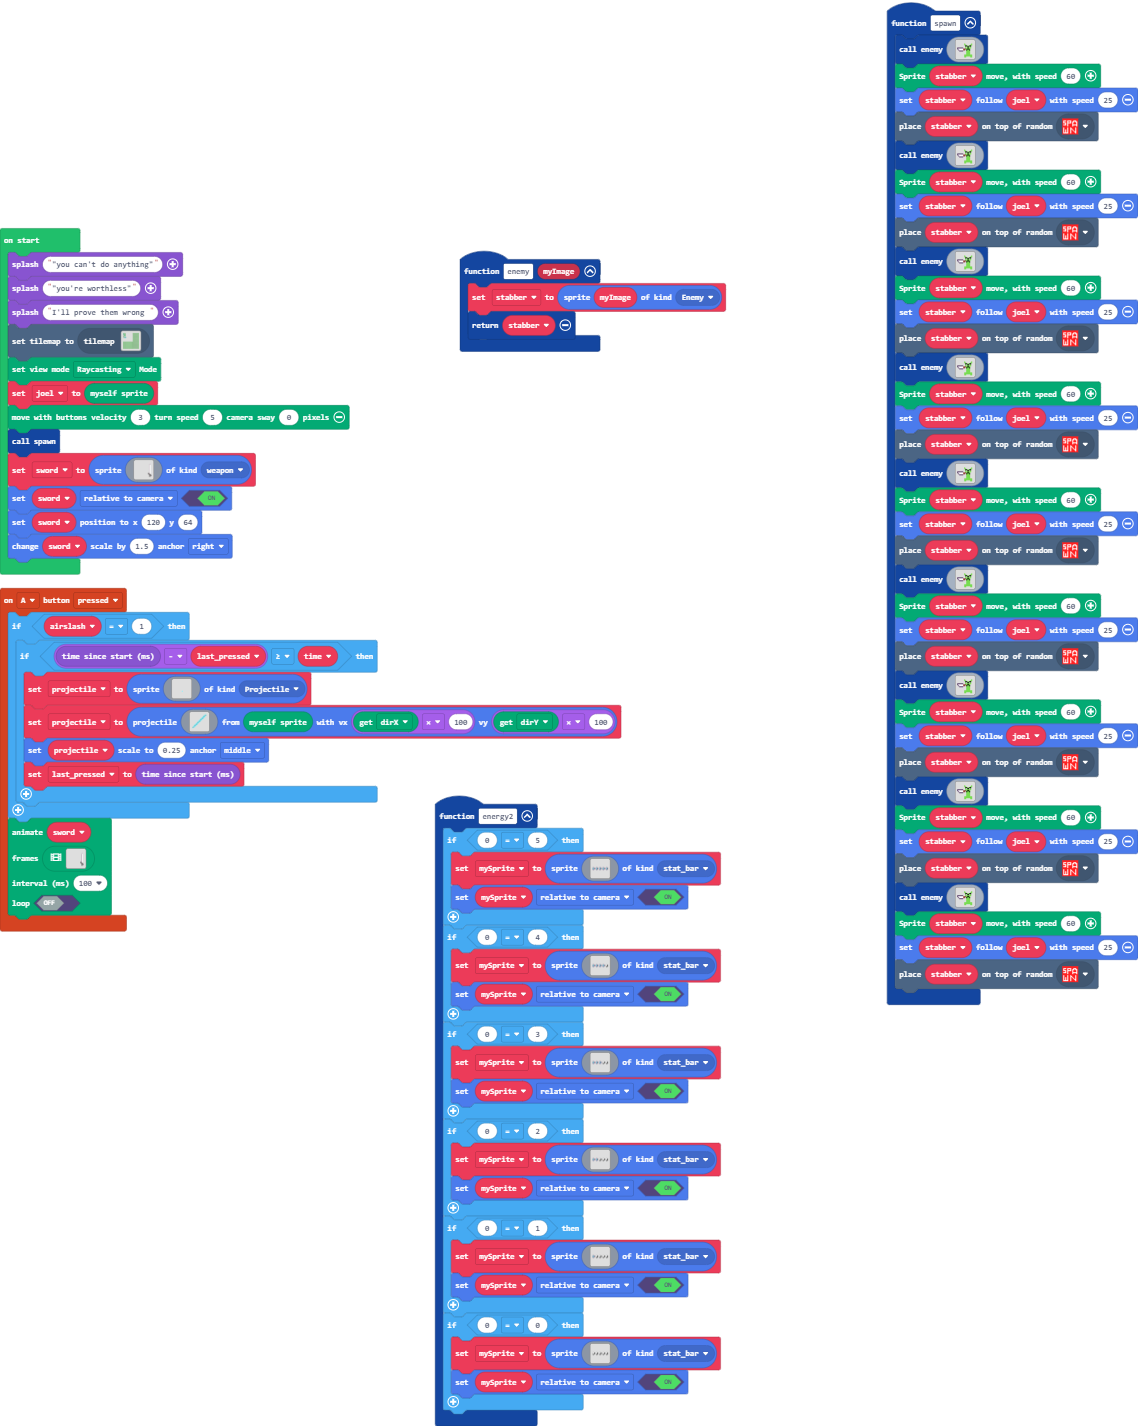
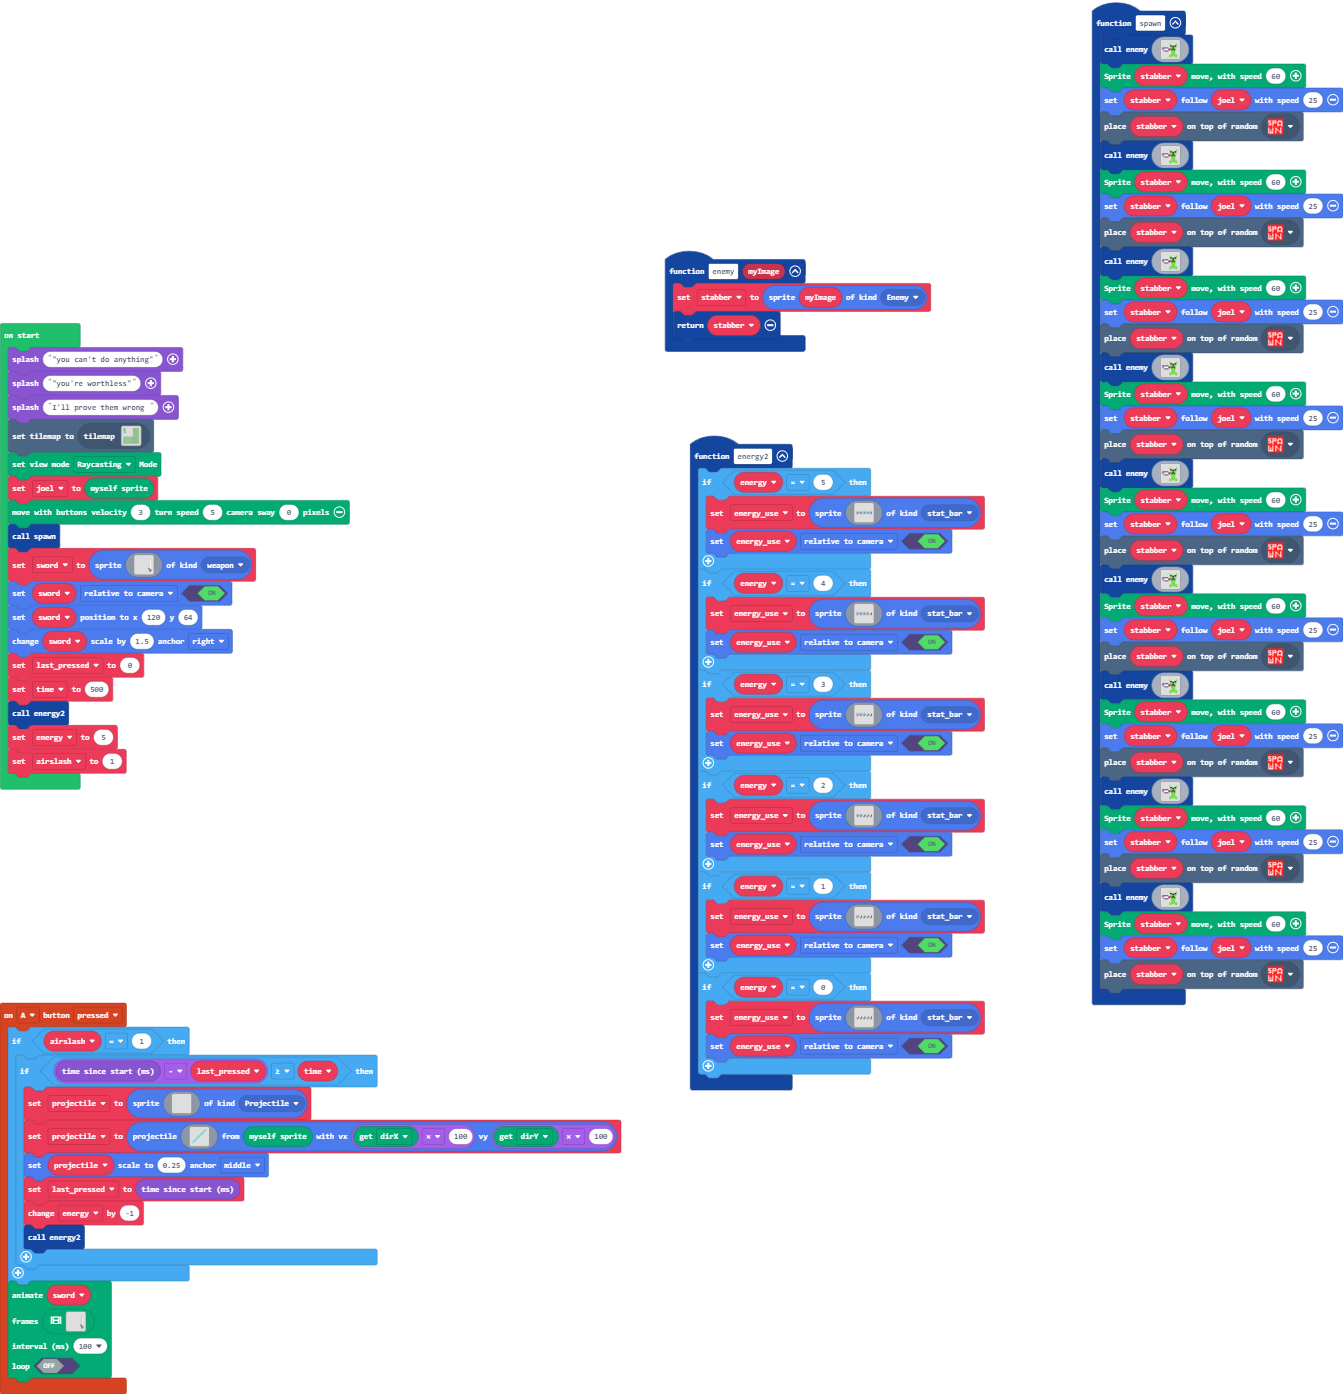
Update main.blocks, main.ts, images.g.jres, images.g.ts

diff --git a/main.ts b/main.ts
@@ -3,86 +3,33 @@ namespace SpriteKind {
     export const stat_bar = SpriteKind.create()
 }
 function energy2 () {
-    if ((0 as any) == (5 as any)) {
-        mySprite = sprites.create(assets.image`energy_bar`, SpriteKind.stat_bar)
-        mySprite.setFlag(SpriteFlag.RelativeToCamera, true)
+    if (energy == 5) {
+        energy_use = sprites.create(assets.image`5energy_bar`, SpriteKind.stat_bar)
+        energy_use.setFlag(SpriteFlag.RelativeToCamera, true)
     }
-    if ((0 as any) == (4 as any)) {
-        mySprite = sprites.create(assets.image`2energy_bar`, SpriteKind.stat_bar)
-        mySprite.setFlag(SpriteFlag.RelativeToCamera, true)
+    if (energy == 4) {
+        energy_use = sprites.create(assets.image`4energy_bar`, SpriteKind.stat_bar)
+        energy_use.setFlag(SpriteFlag.RelativeToCamera, true)
     }
-    if ((0 as any) == (3 as any)) {
-        mySprite = sprites.create(assets.image`3energy_bar`, SpriteKind.stat_bar)
-        mySprite.setFlag(SpriteFlag.RelativeToCamera, true)
+    if (energy == 3) {
+        energy_use = sprites.create(assets.image`3energy_bar`, SpriteKind.stat_bar)
+        energy_use.setFlag(SpriteFlag.RelativeToCamera, true)
     }
-    if ((0 as any) == (2 as any)) {
-        mySprite = sprites.create(img`
-            ........................
-            ........................
-            ........................
-            ........................
-            ........................
-            ........................
-            .bb...bb...aa...aa...aa.
-            b96c.b96c.a11f.a11f.a11f
-            b99c.b99c.a11f.a11f.a11f
-            .cc...cc...ff...ff...ff.
-            ........................
-            ........................
-            ........................
-            ........................
-            ........................
-            ........................
-            `, SpriteKind.stat_bar)
-        mySprite.setFlag(SpriteFlag.RelativeToCamera, true)
+    if (energy == 2) {
+        energy_use = sprites.create(assets.image`2energy_bar`, SpriteKind.stat_bar)
+        energy_use.setFlag(SpriteFlag.RelativeToCamera, true)
     }
-    if ((0 as any) == (1 as any)) {
-        mySprite = sprites.create(img`
-            ........................
-            ........................
-            ........................
-            ........................
-            ........................
-            ........................
-            .bb...aa...aa...aa...aa.
-            b96c.a11f.a11f.a11f.a11f
-            b99c.a11f.a11f.a11f.a11f
-            .cc...ff...ff...ff...ff.
-            ........................
-            ........................
-            ........................
-            ........................
-            ........................
-            ........................
-            `, SpriteKind.stat_bar)
-        mySprite.setFlag(SpriteFlag.RelativeToCamera, true)
+    if (energy == 1) {
+        energy_use = sprites.create(assets.image`1energy_bar`, SpriteKind.stat_bar)
+        energy_use.setFlag(SpriteFlag.RelativeToCamera, true)
     }
-    if (0 == 0) {
-        mySprite = sprites.create(img`
-            ........................
-            ........................
-            ........................
-            ........................
-            ........................
-            ........................
-            .aa...aa...aa...aa...aa.
-            a11f.a11f.a11f.a11f.a11f
-            a11f.a11f.a11f.a11f.a11f
-            .ff...ff...ff...ff...ff.
-            ........................
-            ........................
-            ........................
-            ........................
-            ........................
-            ........................
-            `, SpriteKind.stat_bar)
-        mySprite.setFlag(SpriteFlag.RelativeToCamera, true)
+    if (energy == 0) {
+        energy_use = sprites.create(assets.image`0energy`, SpriteKind.stat_bar)
+        energy_use.setFlag(SpriteFlag.RelativeToCamera, true)
     }
 }
 controller.A.onEvent(ControllerButtonEvent.Pressed, function () {
-    let airslash = 0
     if (airslash == 1) {
-        let time = 0
         if (game.runtime() - last_pressed >= time) {
             projectile = sprites.create(img`
                 . . . . . . . . . . . . . . . . 
@@ -105,6 +52,8 @@ controller.A.onEvent(ControllerButtonEvent.Pressed, function () {
             projectile = sprites.createProjectileFromSprite(assets.image`airslash`, Render.getRenderSpriteInstance(), Render.getAttribute(Render.attribute.dirX) * 100, Render.getAttribute(Render.attribute.dirY) * 100)
             projectile.setScale(0.25, ScaleAnchor.Middle)
             last_pressed = game.runtime()
+            energy += -1
+            energy2()
         }
     }
     animation.runImageAnimation(
@@ -418,8 +367,11 @@ function spawn () {
 }
 let stabber: Sprite = null
 let projectile: Sprite = null
+let energy_use: Sprite = null
+let airslash = 0
+let energy = 0
+let time = 0
 let last_pressed = 0
-let mySprite: Sprite = null
 let sword: Sprite = null
 let joel: Sprite = null
 game.splash("\"you can't do anything\"")
@@ -434,3 +386,8 @@ sword = sprites.create(assets.image`sword`, SpriteKind.weapon)
 sword.setFlag(SpriteFlag.RelativeToCamera, true)
 sword.setPosition(120, 64)
 sword.changeScale(1.5, ScaleAnchor.Right)
+last_pressed = 0
+time = 500
+energy2()
+energy = 5
+airslash = 1

diff --git a/images.g.ts b/images.g.ts
@@ -143,18 +143,18 @@ c 1 1 1 1 1 e e e 7 f f 7 . . .
 ................................................................
 ................................................................
 `;
-            case "image5":
-            case "energy_bar":return img`
+            case "image7":
+            case "3energy_bar":return img`
 ........................
 ........................
 ........................
 ........................
 ........................
 ........................
-.bb...bb...bb...bb...bb.
-b96c.b96c.b96c.b96c.b96c
-b99c.b99c.b99c.b99c.b99c
-.cc...cc...cc...cc...cc.
+.bb...bb...bb...aa...aa.
+b96c.b96c.b96c.a11f.a11f
+b99c.b99c.b99c.a11f.a11f
+.cc...cc...cc...ff...ff.
 ........................
 ........................
 ........................
@@ -163,7 +163,7 @@ b99c.b99c.b99c.b99c.b99c
 ........................
 `;
             case "image6":
-            case "2energy_bar":return img`
+            case "4energy_bar":return img`
 ........................
 ........................
 ........................
@@ -181,18 +181,75 @@ b99c.b99c.b99c.b99c.a11f
 ........................
 ........................
 `;
-            case "image7":
-            case "3energy_bar":return img`
+            case "image5":
+            case "5energy_bar":return img`
 ........................
 ........................
 ........................
 ........................
 ........................
 ........................
-.bb...bb...bb...aa...aa.
-b96c.b96c.b96c.a11f.a11f
-b99c.b99c.b99c.a11f.a11f
-.cc...cc...cc...ff...ff.
+.bb...bb...bb...bb...bb.
+b96c.b96c.b96c.b96c.b96c
+b99c.b99c.b99c.b99c.b99c
+.cc...cc...cc...cc...cc.
+........................
+........................
+........................
+........................
+........................
+........................
+`;
+            case "image9":
+            case "1energy_bar":return img`
+........................
+........................
+........................
+........................
+........................
+........................
+.bb...aa...aa...aa...aa.
+b96c.a11f.a11f.a11f.a11f
+b99c.a11f.a11f.a11f.a11f
+.cc...ff...ff...ff...ff.
+........................
+........................
+........................
+........................
+........................
+........................
+`;
+            case "image8":
+            case "2energy_bar":return img`
+........................
+........................
+........................
+........................
+........................
+........................
+.bb...bb...aa...aa...aa.
+b96c.b96c.a11f.a11f.a11f
+b99c.b99c.a11f.a11f.a11f
+.cc...cc...ff...ff...ff.
+........................
+........................
+........................
+........................
+........................
+........................
+`;
+            case "image10":
+            case "0energy":return img`
+........................
+........................
+........................
+........................
+........................
+........................
+.aa...aa...aa...aa...aa.
+a11f.a11f.a11f.a11f.a11f
+a11f.a11f.a11f.a11f.a11f
+.ff...ff...ff...ff...ff.
 ........................
 ........................
 ........................
